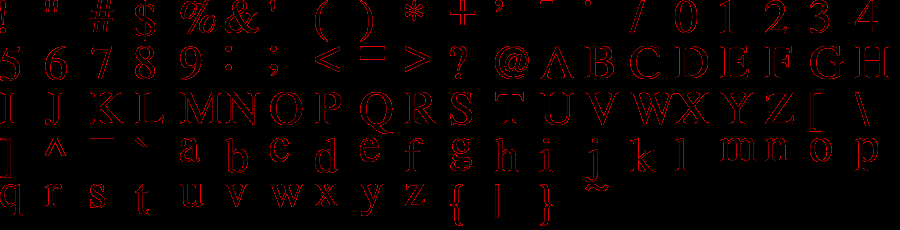
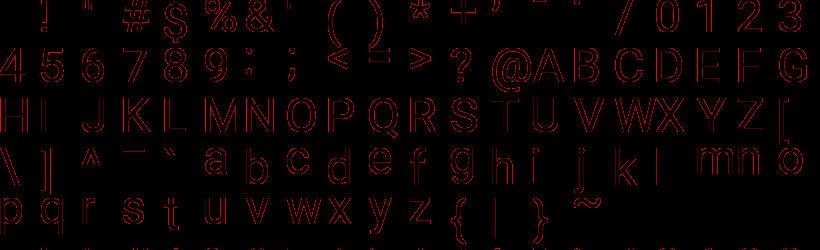
Work on font rendering

diff --git a/src/ui/UIText.cpp b/src/ui/UIText.cpp
@@ -39,7 +39,7 @@ Array<UICharMesh> CharMeshBuilder::BuildCharMeshes(const FontAtlas &font_atlas, 
     AssertThrowMsg(font_atlas.GetTexture().IsValid(), "Font atlas texture is invalid");
 
     Array<UICharMesh> char_meshes;
-    Vec3f placement;
+    Vec2f placement;
 
     const SizeType length = text.Length();
 
@@ -49,7 +49,7 @@ Array<UICharMesh> CharMeshBuilder::BuildCharMeshes(const FontAtlas &font_atlas, 
         if (ch == '\n') {
             // reset placement, add room for newline
             placement.x = 0.0f;
-            placement.y -= 1.5f;
+            placement.y += 1.0f;
 
             continue;
         }
@@ -62,14 +62,16 @@ Array<UICharMesh> CharMeshBuilder::BuildCharMeshes(const FontAtlas &font_atlas, 
         }
 
         const Vec2i char_offset = glyph_metrics->image_position + Vec2i(glyph_metrics->metrics.bearing_x, 0);
-        const Vec2f atlas_pixel_size = Vec2f::one / Vec2f(font_atlas.GetDimensions());
-        const Vec2f glyph_scaling = Vec2f(glyph_metrics->metrics.width, glyph_metrics->metrics.height);
 
-        static const float scale_multiplier = 0.05f;
+        const Vec2f atlas_pixel_size = Vec2f::one / Vec2f(font_atlas.GetDimensions());
+        const Vec2f glyph_dimensions = Vec2f(glyph_metrics->metrics.width, glyph_metrics->metrics.height);
+        const Vec2f glyph_scaling = Vec2f(glyph_dimensions) / Vec2f(font_atlas.GetCellDimensions());
 
         UICharMesh char_mesh;
-        char_mesh.transform.SetTranslation(placement);
-        // char_mesh.transform.SetScale(Vec3f { glyph_scaling.x * scale_multiplier, glyph_scaling.y * scale_multiplier, 1.0f });
+        
+        // char_mesh.transform.SetTranslation(placement);
+        // char_mesh.transform.SetScale(Vec3f { glyph_scaling.x, glyph_scaling.y, 1.0f });
+
         char_mesh.mesh_data = quad_mesh->GetStreamedMeshData();
 
         auto ref = char_mesh.mesh_data->AcquireRef();
@@ -78,7 +80,18 @@ Array<UICharMesh> CharMeshBuilder::BuildCharMeshes(const FontAtlas &font_atlas, 
         const Array<uint32> &indices = ref->GetMeshData().indices;
 
         for (Vertex &vert : vertices) {
-            vert.SetTexCoord0((Vec2f(char_offset) + (vert.GetTexCoord0() * (glyph_scaling - 1))) * (atlas_pixel_size));
+            const Vec3f current_position = vert.GetPosition();
+
+            Vec2f position = Vec2f { current_position.x, current_position.y } * Vec2f(0.5f, 0.5f) + Vec2f(0.5f, -0.5f);
+            // adjust for bearing
+            position.y += float(glyph_metrics->metrics.height - glyph_metrics->metrics.bearing_y) / float(glyph_metrics->metrics.height);
+            // scale to glyph size
+            position *= glyph_scaling;
+            // offset from other characters
+            position += placement;
+
+            vert.SetPosition(Vec3f { position.x, position.y, current_position.z });
+            vert.SetTexCoord0((Vec2f(char_offset) + (vert.GetTexCoord0() * (glyph_dimensions - 1))) * (atlas_pixel_size));
         }
 
         char_mesh.mesh_data = StreamedMeshData::FromMeshData({
@@ -86,7 +99,7 @@ Array<UICharMesh> CharMeshBuilder::BuildCharMeshes(const FontAtlas &font_atlas, 
             indices
         });
 
-        placement.x += 1.0f;//float(uint32(glyph_metrics->metrics.advance) >> 6u);
+        placement.x += float(glyph_metrics->metrics.advance >> 6u) / float(font_atlas.GetCellDimensions().width);
 
         char_meshes.PushBack(std::move(char_mesh));
     }
@@ -101,7 +114,7 @@ Handle<Mesh> CharMeshBuilder::OptimizeCharMeshes(Vec2i screen_size, Array<UIChar
     }
 
     Transform base_transform;
-    base_transform.SetTranslation(Vec3f { 1.0f, -1.0f, 0.0f });
+    // base_transform.SetTranslation(Vec3f { 1.0f, -1.0f, 0.0f });
     // base_transform.SetScale(Vec3f { 1.0f / float(screen_size.x), 1.0f / float(screen_size.y), 1.0f });
 
     Handle<Mesh> char_mesh = CreateObject<Mesh>(char_meshes[0].mesh_data);
@@ -182,7 +195,7 @@ Handle<Material> UIText::GetMaterial() const
 {
     return g_material_system->GetOrCreate(
         MaterialAttributes {
-            .shader_definition  = ShaderDefinition { HYP_NAME(UIObject), ShaderProperties(static_mesh_vertex_attributes) },
+            .shader_definition  = ShaderDefinition { HYP_NAME(UIObject), ShaderProperties(static_mesh_vertex_attributes, { { "TEXT" } }) },
             .bucket             = Bucket::BUCKET_UI,
             .blend_mode         = BlendMode::NORMAL,
             .cull_faces         = FaceCullMode::NONE,

diff --git a/src/rendering/font/Glyph.cpp b/src/rendering/font/Glyph.cpp
@@ -28,7 +28,7 @@ Handle<Texture> GlyphImageData::CreateTexture() const
     Handle<Texture> texture = CreateObject<Texture>(Texture2D(
         dimensions,
         InternalFormat::R8,
-        FilterMode::TEXTURE_FILTER_LINEAR,
+        FilterMode::TEXTURE_FILTER_NEAREST,
         WrapMode::TEXTURE_WRAP_CLAMP_TO_EDGE,
         std::move(streamed_texture_data)
     ));
@@ -40,12 +40,14 @@ Handle<Texture> GlyphImageData::CreateTexture() const
 
 // Glyph
 
-Glyph::Glyph(RC<FontFace> face, FontFace::GlyphIndex index, bool render = false)
+Glyph::Glyph(RC<FontFace> face, FontFace::GlyphIndex index, bool render)
     : m_face(std::move(face))
 {
 #ifdef HYP_FREETYPE
-    if (FT_Load_Glyph(m_face->GetFace(), index, (render) ? FT_LOAD_RENDER : FT_LOAD_DEFAULT)) {
+    if (FT_Load_Glyph(m_face->GetFace(), index, FT_LOAD_DEFAULT | FT_LOAD_COLOR | (render ? FT_LOAD_RENDER : 0))) {
         DebugLog(LogType::Error, "Error loading glyph from font face!\n");
+
+        return;
     }
 #endif
 }
@@ -58,14 +60,16 @@ void Glyph::Render()
     PackedMetrics packed_metrics { };
 
 #ifdef HYP_FREETYPE
-    int error = FT_Render_Glyph(m_face->GetFace()->glyph, FT_RENDER_MODE_NORMAL);
+    // int error = FT_Render_Glyph(m_face->GetFace()->glyph, FT_RENDER_MODE_NORMAL);
 
-    if (error) {
-        DebugLog(LogType::Error, "Error rendering glyph '%s': %u\n", FT_Error_String(error), error);
-    }
+    // if (error) {
+    //     DebugLog(LogType::Error, "Error rendering glyph '%s': %u\n", FT_Error_String(error), error);
+    // }
 
     glyph = m_face->GetFace()->glyph;
-    FT_Bitmap *ft_bitmap = &glyph->bitmap;
+    FT_Bitmap &ft_bitmap = glyph->bitmap;
+
+    AssertThrow(glyph->format == FT_GLYPH_FORMAT_BITMAP);
 
     packed_metrics = {
         .width      = uint16(glyph->bitmap.width),
@@ -81,12 +85,20 @@ void Glyph::Render()
         .image_position = { 0, 0 }
     };
 
-
 #ifdef HYP_FREETYPE
-    ByteBuffer byte_buffer(ft_bitmap->width * ft_bitmap->rows, ft_bitmap->buffer);
+    Extent2D dimensions = GetMax();
+    dimensions.width = MathUtil::Max(dimensions.width, 1u);
+    dimensions.height = MathUtil::Max(dimensions.height, 1u);
+
+    ByteBuffer byte_buffer;
+    byte_buffer.SetSize(dimensions.Size());
+
+    if (ft_bitmap.buffer != nullptr) {
+        byte_buffer.Write(ft_bitmap.width * ft_bitmap.rows, 0, ft_bitmap.buffer);
+    }
 
     m_glyph_image_data = GlyphImageData {
-        { ft_bitmap->width, ft_bitmap->rows },
+        dimensions,
         std::move(byte_buffer)
     };
 #endif
@@ -97,8 +109,10 @@ Extent2D Glyph::GetMax()
     AssertThrow(m_face != nullptr);
 
 #ifdef HYP_FREETYPE
-    auto &box = m_face->GetFace()->glyph->metrics;
-    return { (uint32)box.width/64, (uint32)box.height/64 };
+
+    return { m_face->GetFace()->glyph->bitmap.width, m_face->GetFace()->glyph->bitmap.rows };
+    // auto &box = m_face->GetFace()->glyph->metrics;
+    // return { (uint32)box.width/64, (uint32)box.height/64 };
 #else
     return { 0, 0 };
 #endif

diff --git a/src/rendering/font/FontAtlas.cpp b/src/rendering/font/FontAtlas.cpp
@@ -46,15 +46,13 @@ FontAtlas::FontAtlas(RC<FontFace> face)
 
     // Each cell will be the same size at the largest symbol
     m_cell_dimensions = FindMaxDimensions(m_face);
-    // Data lines to store information about the symbol (overhang, width, height, etc)
-    m_cell_dimensions[1] += data_lines_offset;
-
+    
     m_atlas = CreateObject<Texture>(
         Texture2D(
             Extent2D { m_cell_dimensions.width * symbol_columns, m_cell_dimensions.height * symbol_rows },
             /* Grayscale 8-bit texture */
             InternalFormat::R8,
-            FilterMode::TEXTURE_FILTER_LINEAR,
+            FilterMode::TEXTURE_FILTER_NEAREST,
             WrapMode::TEXTURE_WRAP_CLAMP_TO_EDGE,
             nullptr
         )
@@ -65,15 +63,16 @@ FontAtlas::FontAtlas(RC<FontFace> face)
 
 FontAtlas::SymbolList FontAtlas::GetDefaultSymbolList()
 {
-    // highest symbol in the ascii table
-    const uint end = uint('~' + 1);
     // first renderable symbol
-    const uint start = uint('!');
+    static constexpr uint char_range_start = 32; // space
+
+    // highest symbol in the ascii table
+    static constexpr uint char_range_end = 126; // ~ + 1
 
     SymbolList symbol_list;
-    symbol_list.Reserve(end - start);
+    symbol_list.Reserve(char_range_end - char_range_start + 1);
 
-    for (uint ch = start; ch < end; ch++) {
+    for (uint ch = char_range_start; ch <= char_range_end; ch++) {
         symbol_list.PushBack(ch);
     }
 
@@ -101,29 +100,28 @@ void FontAtlas::Render()
         if (y_index > symbol_rows)
             break;
 
-        const Vec2i position {
-            int(x_index * m_cell_dimensions.width),
-
-            /* Our cell is offset by data_lines_offset to allow our extra metadata
-                * to be written to the top of each cell. */
-            int(y_index * m_cell_dimensions.height + data_lines_offset)
-        };
-
         Glyph::Metrics metrics = glyph.GetMetrics();
 
         metrics.image_position = Vec2i {
             int(x_index * m_cell_dimensions.width),
-            int(y_index * m_cell_dimensions.height),
+            int(y_index * m_cell_dimensions.height)
         };
+
         m_glyph_metrics.PushBack(metrics);
 
-        image_index++;
+        const Vec2i position {
+            int(x_index * m_cell_dimensions.width),
+            int(y_index * m_cell_dimensions.height)
+        };
 
         // Render our character texture => atlas
         RenderCharacter(position, m_cell_dimensions, glyph);
+
+        image_index++;
     }
 
     if (!Threads::IsOnThread(THREAD_RENDER)) {
+        // Sync render commands if not on render thread (render commands are executed inline if on render thread)
         HYP_SYNC_RENDER();
     }
 

diff --git a/src/rendering/font/FontAtlas.hpp b/src/rendering/font/FontAtlas.hpp
@@ -25,8 +25,6 @@ public:
     static constexpr uint symbol_columns = 20;
     static constexpr uint symbol_rows = 5;
 
-    static constexpr uint data_lines_offset = 2;
-
     using SymbolList = Array<FontFace::WChar>;
     using GlyphMetricsBuffer = Array<Glyph::Metrics>;
 
@@ -109,43 +107,6 @@ public:
     //     bitmap.Write(path);
     // }
 private:
-
-    void WriteGlyphMetrics(ByteBuffer &pixels, FontAtlas &atlas)
-    {
-        const Extent2D cell_dimensions = atlas.GetCellDimensions();
-        const FontAtlas::GlyphMetricsBuffer metrics = atlas.GetGlyphMetrics();
-
-        ubyte *dest_buffer = m_bytes.GetInternalArray().Data();
-
-        for (auto &metric : metrics) {
-            SizeType buffer_offset = metric.image_position.y * atlas.GetDimensions().width + metric.image_position.x;
-
-            int metrics_to_write = int(sizeof(metric.metrics));
-            const uint cell_width = atlas.GetCellDimensions().width;
-
-            DebugLog(LogType::RenDebug, "metrics to write: %d\n", metrics_to_write);
-
-            // Check to make sure that we are not going to overwrite glyph data!
-            if (metrics_to_write > cell_width * FontAtlas::data_lines_offset) {
-                DebugLog(LogType::Warn, "Font glyph metrics data is larger than allocated data lines in image! Skipping writing metrics...\n");
-                return;
-            }
-
-            // For line wrap, the simplest method is to just loop over until we run out of data.
-            // Thus, if we later expand our glyph metadata struct, we can just keep wrapping over
-            // to the next available line.
-            do {
-                auto packed_metrics = metric.GetPackedMetrics();
-
-                Memory::MemCpy(dest_buffer + buffer_offset, &packed_metrics, (metrics_to_write > cell_width) ? cell_width : metrics_to_write);
-
-                buffer_offset += atlas.GetDimensions().height;
-                metrics_to_write -= int(cell_width);
-            } while (metrics_to_write > 0);
-
-            //DebugLog(LogType::RenDebug, "Font char metrics: (w:%d,h:%d), (%d,%d), %d\n", metric.width, metric.height, metric.bearing_x, metric.bearing_y, metric.advance);
-        }
-    }
 
     FontAtlas   m_atlas;
 

diff --git a/samples/SampleStreamer.cpp b/samples/SampleStreamer.cpp
@@ -191,7 +191,7 @@ void SampleStreamer::InitGame()
     }
 
     // // Test freetype font rendering
-    auto font_face = g_asset_manager->Load<FontFace>("fonts/FreeSerif/FreeSerif.otf");
+    auto font_face = g_asset_manager->Load<FontFace>("fonts/Roboto/Roboto-Regular.ttf");
     FontAtlas atlas(font_face);
 
     // atlas.RenderSync();
@@ -206,7 +206,7 @@ void SampleStreamer::InitGame()
     
     auto font_metadata_json = fr.GenerateMetadataJSON("font_bitmap.png");
 
-    FileByteWriter bw("font_definition.json");
+    FileByteWriter bw("res/fonts/default.json");
     bw.WriteString(font_metadata_json.ToString(true) + '\n');
     bw.Close();
 
@@ -757,8 +757,8 @@ void SampleStreamer::InitGame()
             return true;
         });
 
-        auto ui_text = GetUI().CreateUIObject<UIText>(Vec2i { 30, 30 }, Vec2i { 50, 50 });
-        ui_text->SetText("Hello");
+        auto ui_text = GetUI().CreateUIObject<UIText>(Vec2i { 150, 150 }, Vec2i { 20, 20 });
+        ui_text->SetText("Hello, world!\nThis is a test.\ngood luck!\npoggers!");
         ui_text.GetNode().Get()->Remove();
         btn.GetNode().Get()->AddChild(ui_text.GetNode());
 

diff --git a/src/rendering/font/Glyph.hpp b/src/rendering/font/Glyph.hpp
@@ -20,16 +20,14 @@ struct GlyphImageData
 class Glyph
 {
 public:
-
-    HYP_PACK_BEGIN
     struct PackedMetrics
     {
-        uint16  width;     /* 2 */
-        uint16  height;    /* 4 */
-        int16   bearing_x;  /* 6 */
-        int16   bearing_y;  /* 8 */
-        uint32   advance;    /* 12 */
-    } HYP_PACK_END;
+        uint16  width;
+        uint16  height;
+        int16   bearing_x;
+        int16   bearing_y;
+        uint32  advance;
+    };
 
     struct Metrics
     {
@@ -41,7 +39,7 @@ public:
             { return metrics; }
     };
 
-    Glyph(RC<FontFace> face, FontFace::GlyphIndex index, bool render);
+    Glyph(RC<FontFace> face, FontFace::GlyphIndex index, bool render = false);
     void Render();
 
     [[nodiscard]] Metrics GetMetrics() const

diff --git a/src/asset/font_loaders/FontAtlasLoader.cpp b/src/asset/font_loaders/FontAtlasLoader.cpp
@@ -44,8 +44,6 @@ LoadedAsset FontAtlasLoader::LoadAsset(LoaderState &state) const
 
     Extent2D cell_dimensions;
 
-    DebugLog(LogType::Debug, "JSON cell dimensions:\n\t%s\t%d\n", json_value["cell_dimensions"].ToString().Data(), json_value["cell_dimensions"].ToBool());
-
     if (auto cell_dimensions_value = json_value["cell_dimensions"]) {
         cell_dimensions.width = uint32(cell_dimensions_value["width"].ToNumber());
         cell_dimensions.height = uint32(cell_dimensions_value["height"].ToNumber());

diff --git a/src/rendering/backend/vulkan/RendererImage.cpp b/src/rendering/backend/vulkan/RendererImage.cpp
@@ -167,6 +167,10 @@ Result Image<Platform::VULKAN>::CreateImage(
     VkImageCreateInfo *out_image_info
 )
 {
+    if (m_extent.Size() == 0) {
+        return Result { Result::RENDERER_ERR, "Invalid image extent - width*height*depth cannot equal zero" };
+    }
+
     VkFormat format = helpers::ToVkFormat(m_format);
     VkImageType image_type = helpers::ToVkType(m_type);
     VkImageCreateFlags image_create_flags = 0;

diff --git a/src/rendering/font/FontFace.cpp b/src/rendering/font/FontFace.cpp
@@ -41,6 +41,11 @@ FontFace &FontFace::operator=(FontFace &&other) noexcept
 
 FontFace::~FontFace()
 {
+#ifdef HYP_FREETYPE
+    if (m_face != nullptr) {
+        FT_Done_Face(m_face);
+    }
+#endif
 }
 
 void FontFace::SetGlyphSize(int pt_w, int pt_h, int screen_width, int screen_height)
